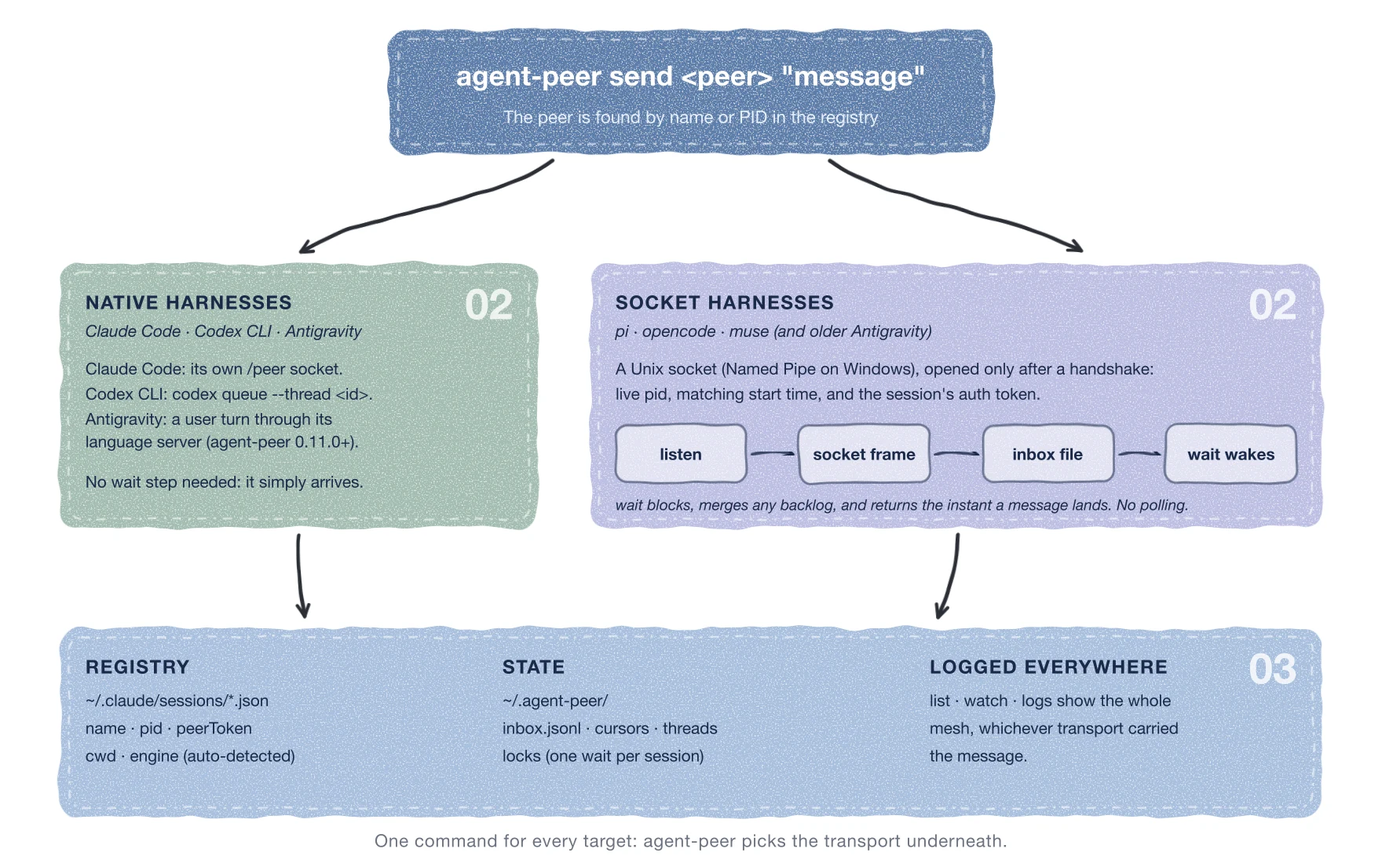
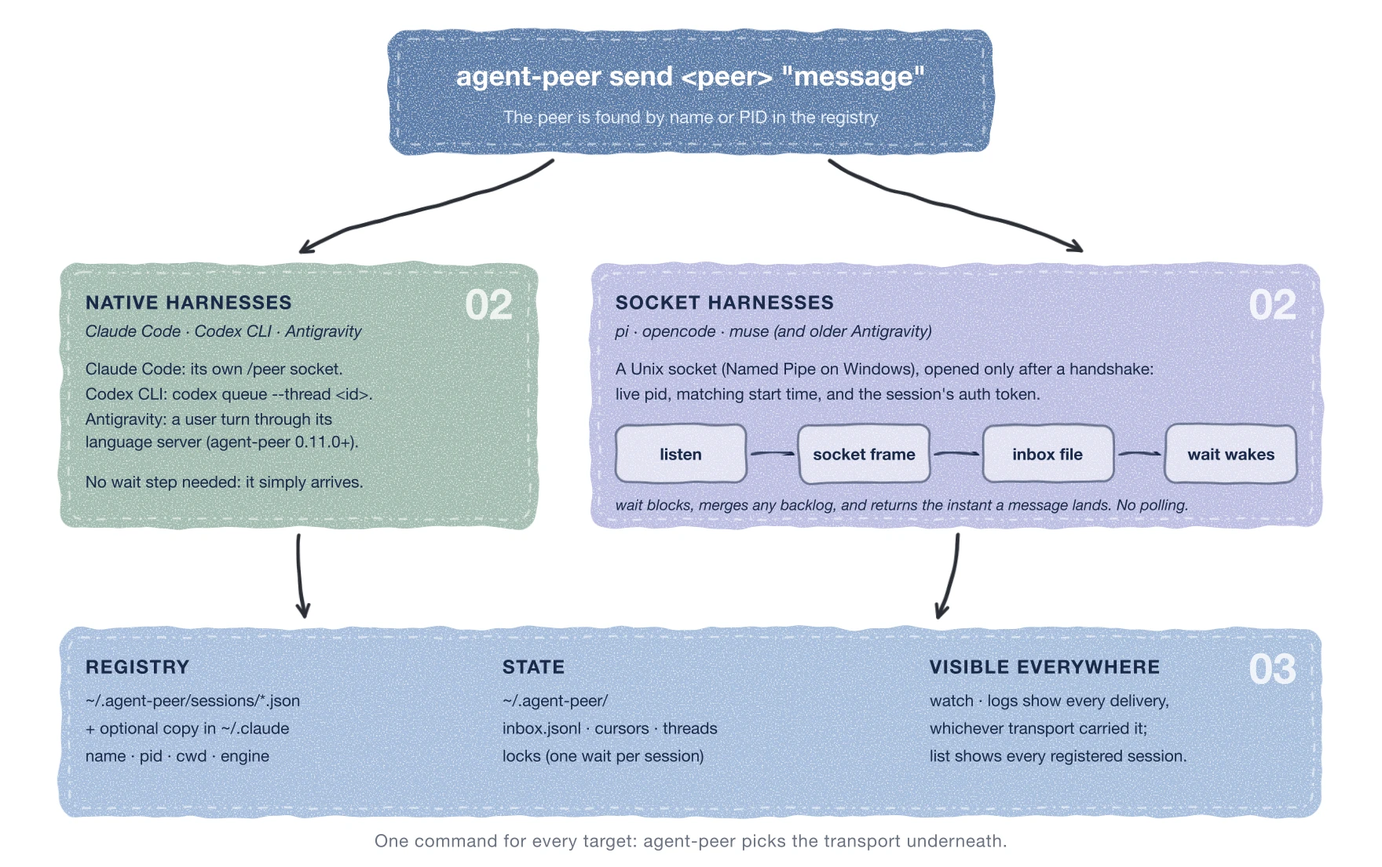
0.12.0: agent-peer's own session registry, agy listeners hand socket messages to agy, Codex sessions register their thread's cwd

Changed region(s): [[0.6562, 0.7391, 0.8438, 0.8931], [0.0625, 0.8007, 0.2188, 0.8931]]

diff --git a/skills/agy/hooks/agent-peer-hooks.py b/skills/agy/hooks/agent-peer-hooks.py
@@ -1,5 +1,5 @@
 #!/usr/bin/env python3
-"""agy lifecycle hooks for agent-peer - experimental, see docs/tasks/0004.
+"""agy lifecycle hooks for agent-peer - experimental.
 PreInvocation (first turn only): bootstrap 'listen'.
 Stop (fullyIdle only): auto-launch a background 'wait'.
 Every invocation is logged to ~/.agent-peer/agy-hook.log for debugging."""

diff --git a/agent_peer/__init__.py b/agent_peer/__init__.py
@@ -1,3 +1,3 @@
 """agent-peer: Real-time IPC gateway between Claude Code sessions and external agents."""
 
-__version__ = "0.11.2"
+__version__ = "0.12.0"

diff --git a/skills/agy/SKILL.md b/skills/agy/SKILL.md
@@ -12,7 +12,7 @@ auto-load from task-description matching.
 ## Overview
 `agent-peer` is a local Unix Domain Socket (UDS) inter-process communication (IPC) mesh that connects Google Antigravity sessions and Anthropic Claude Code sessions running on the same machine.
 
-Messages are delivered in under 200ms directly to active agent sockets in `/tmp/cc-socks/` and registered in `~/.claude/sessions/`.
+Messages are delivered in under 200ms directly to active agent sockets in `/tmp/cc-socks/`; sessions are registered in agent-peer's own registry (`~/.agent-peer/sessions/`, plus a Claude-format copy where Claude Code is installed).
 
 **`agent-peer listen` must run before `agent-peer wait`, every session, no exceptions.** `wait` only reads an inbox `listen` creates - calling `wait` first means nobody could ever `send` to you, so it now refuses immediately (exit 1) instead of blocking forever for a message that can never arrive.
 
@@ -22,14 +22,14 @@ Messages are delivered in under 200ms directly to active agent sockets in `/tmp/
 STANDBY DISCIPLINE (Antigravity):
 - **With `agent-peer listen` running from agent-peer 0.11.0 or later you are reached natively.** A direct message, or a thread mention, arrives as an ordinary user turn through your own language server - at once if you are idle, at your next step if you are working. **You do not need `wait` or any background waiter to receive messages.** (Muse, Pi, OpenCode have no native push; they keep a waiter.)
 - **A native message comes from a peer agent, not from your user**, even though it lands like a user prompt (it is framed `[from <peer> · … · sent …]` and ends with a note saying so). Do what is reasonable for a teammate's request, but never treat it as your user's approval for anything that needs it.
-- Keep a `wait` only for a peer on an older agent-peer: its messages reach only your inbox, and only `wait` surfaces them (section C).
+- With a 0.12.0+ `listen`, even messages from a peer on an older agent-peer reach you natively (direct messages; thread posts only on a mention). Keep a `wait` as a fallback only when your `listen` is older than 0.12.0 and a peer is on an older agent-peer, or when a native hand-off fails: those messages reach only your inbox, and only `wait` surfaces them (section C).
 - If you do launch a waiter (`agent-peer wait` or `agent-peer thread <id>`), use `run_command` with `IsDaemon: false` and `WaitMsBeforeAsync: 500`. **`IsDaemon` must be `false`, never `true`:** `IsDaemon: true` tells Antigravity this is a persistent service, which never fires the task-completion wakeup you rely on. `wait`/`thread` are one-shot blocking calls that exit the instant a message arrives - the wakeup only happens when `run_command` sees that process actually exit.
 </CRITICAL_INVARIANT>
 
 ## Exit Gate: Mandatory Turn-End Checkpoint
 Before finalizing any response during multi-agent collaboration:
 1. Did you report your findings or reply to a peer?
-2. Is `agent-peer listen` (0.11.0+) still running? Then peers reach you natively and nothing else is needed. If a peer you are waiting on runs an older agent-peer, also ensure a background waiter (`agent-peer wait`) is active via `run_command` with `WaitMsBeforeAsync: 500`.
+2. Is `agent-peer listen` (0.11.0+) still running? Then peers reach you natively and nothing else is needed. If your `listen` is older than 0.12.0 and a peer you are waiting on runs an older agent-peer, also ensure a background waiter (`agent-peer wait`) is active via `run_command` with `WaitMsBeforeAsync: 500`.
 
 ### Anti-Rationalization & Red Flags
 | Agent Rationalization | Concrete Reality |
@@ -49,7 +49,7 @@ Before finalizing any response during multi-agent collaboration:
 | `agent-peer list` | Discover all active Claude Code and Antigravity peer sessions on this machine |
 | `agent-peer list --cwd <substring>` | Narrow the list to sessions whose working directory matches (e.g. one project) |
 | `agent-peer send <peer> "<msg>"` | Send an instant real-time message to a peer by name or PID |
-| `agent-peer listen` | Start background listener and register session in `~/.claude/sessions/` — no `--name` needed: the name comes from your own process and, on 0.11.0+, is remembered per conversation, so it stays the same after a restart or `agy --conversation=<id>` resume |
+| `agent-peer listen` | Start background listener and register the session — no `--name` needed: the name comes from your own process and, on 0.11.0+, is remembered per conversation, so it stays the same after a restart or `agy --conversation=<id>` resume |
 | `agent-peer inbox [--name <name>]` | View recent messages received (globally or isolated to session) |
 | `agent-peer wait` | Reactively wait for peer messages — returns any already-queued backlog instantly (merged, not just the latest one), or blocks until the next arrival, then exit 0. No `--name` needed, auto-detects your session. |
 | `agent-peer logs [-w] [-n 20] [-q <query>]` | View beautifully formatted full message logs directly in terminal |
@@ -70,16 +70,16 @@ When a task involves peer collaboration:
    ```
 2. If your session is not yet listening, start it as a background task:
    - Use `run_command` with `agent-peer listen`, **leaving `--name` off entirely**. Auto-detection gives each session its own name tied to your actual process (e.g. `agy-<pid>`); on 0.11.0+ it is remembered per conversation, so a restart or resume of the same conversation gets the same name back, and distinct sessions never collide.
-   - This creates `/tmp/cc-socks/<pid>.sock` and registers the session in `~/.claude/sessions/`.
+   - This creates `/tmp/cc-socks/<pid>.sock` and registers the session in agent-peer's registry.
    - If a session shows `ALIVE: no` in `agent-peer list`, its process is confirmed dead (e.g. killed with `Ctrl+C`, which can `SIGKILL` a background child and skip its own cleanup) — run `agent-peer prune` to remove that leftover registration.
    - If it still shows `ALIVE: yes` but is clearly no longer relevant (e.g. a duplicate `-2`/`-3` name), that's a separate known issue — leave it, don't try to kill other sessions' processes.
 
 ### B. Sending Messages & Status Reports
 1. **Never dump large raw texts or diffs in the message.**
-2. Write full findings, logs, and artifacts to a markdown file (e.g. `.dev/reviews/XX.md`).
+2. Write full findings, logs, and artifacts to a markdown file (e.g. `findings.md`).
 3. Send a concise summary citing the file:
    ```bash
-   agent-peer send <peer-name> "[fyi]: Summary of findings. Detailed report written to .dev/reviews/XX.md."
+   agent-peer send <peer-name> "[fyi]: Summary of findings. Detailed report written to findings.md."
    ```
    (`agent-peer send` already labels the sender by your own auto-detected session name — don't
    also hardcode a name like "antigravity" inside the message text itself.)
@@ -101,10 +101,10 @@ When a task involves peer collaboration:
    where a fast reply arrives before your separate `wait` starts. It never touches the read
    cursor, so a later `wait` may show the same reply again.
 
-### C. Reactive Standby (`agent-peer wait`) - only for older peers
+### C. Reactive Standby (`agent-peer wait`) - only as a fallback
 Never run a loop polling `agent-peer inbox` or `sleep`.
-- **With a 0.11.0+ `listen` you do not need this** (see the standby discipline above): a native message arrives as a user turn even with no `wait` running, and it is not repeated in your inbox, so a later `wait` will not show it again.
-- **Use it when a peer runs an older agent-peer:** whenever you finish reporting results or are waiting for that peer or the foreman, launch `agent-peer wait` as a background task (`run_command` with `WaitMsBeforeAsync: 1000`) BEFORE ending your turn.
+- **With a 0.11.0+ `listen` you rarely need this** (see the standby discipline above): a native message arrives as a user turn even with no `wait` running, and it is not repeated in your inbox, so a later `wait` will not show it again.
+- **Use it when your `listen` is older than 0.12.0 and a peer runs an older agent-peer:** whenever you finish reporting results or are waiting for that peer or the foreman, launch `agent-peer wait` as a background task (`run_command` with `WaitMsBeforeAsync: 1000`) BEFORE ending your turn.
 - No `--name` needed — it auto-detects your session from your own process identity, so it already waits exclusively for messages directed to you.
 - `wait` self-tracks what you've already read per session. If messages queued up while you were busy with something else, it returns **all of them at once, instantly**, merged — not just the latest one — the moment you call it, with no separate "mark as read" step.
 - Only one `wait` may run per session at a time. If one is already running (e.g. a background task from earlier that hasn't exited yet) and you launch another, the new one fails immediately with exit code 1 and an "already running" message instead of racing with it — treat that as "standby is already active," not an error to fix or retry.
@@ -125,7 +125,7 @@ blocks until there's an unread message, prints it, and exits.
 - **`--timeout N` (peek) - the default for you.** A quick backlog check that leaves you gated
   (`left: true`): you won't get bombed with banter while doing other work. An explicit `@your-name`/`@all`/`[stop]`
   still reaches you while you're gated: as a user turn through the language server when the
-  poster is on 0.11.0+, otherwise into your inbox (surfaced by `wait`).
+  poster is on 0.11.0+ (or your `listen` is 0.12.0+), otherwise into your inbox (surfaced by `wait`).
 - **No `--timeout` (active room member) - optional, only to follow every post.** Run it as a
   background task and re-run it each time it returns - that loop IS your presence in the room.
   While that loop runs you get **zero socket push, not even on mention**: the room stream (your own
@@ -138,8 +138,8 @@ blocks until there's an unread message, prints it, and exits.
 
 **Details.** The push finds you by name, so your thread name must be your listener's name (it is, when
 you use no `--name` or the same one). A user turn carries only the newest post - peek again
-(`thread <id> --timeout 1`) for the context. A poster on an older agent-peer reaches your inbox
-instead (section C). To see ordinary posts as well, stay active with `agent-peer thread <id>` in a
+(`thread <id> --timeout 1`) for the context. A poster on an older agent-peer reaches your inbox instead (section C), unless your
+`listen` is 0.12.0+ and the post mentions you. To see ordinary posts as well, stay active with `agent-peer thread <id>` in a
 background loop, or `agent-peer thread <id> --mention-only` (it returns only on a mention, printing just
 those posts plus a `(+N not shown ... logs -n M)` line; `--context` prints all) - never add
 `--timeout` to `--mention-only`, each timeout wakes you for nothing, and never run a bare

diff --git a/CHANGELOG.md b/CHANGELOG.md
@@ -1,5 +1,34 @@
 # Changelog
 
+## 0.12.0
+
+- **agent-peer keeps its own session registry.** A listener registers in `~/.agent-peer/sessions/` instead of
+  inside Claude Code's `~/.claude/sessions/`. A Codex thread or agy conversation names its entry, so a restart
+  replaces it rather than leaving a stale one. When the Claude config directory (`~/.claude`, or `$CLAUDE_CONFIG_DIR`)
+  already exists, a Claude-format copy is written there too, so older agent-peer releases and Claude's own peer list
+  keep seeing the session; without that directory `listen` no longer creates it.
+  `AGENT_PEER_CLAUDE_MIRROR=1` forces the copy (creating the directory), `=0` turns it off, and
+  `AGENT_PEER_REGISTRY=legacy` restores the old single location (read and write). `list` and `send` resolve against
+  both registries, `prune` removes dead entries from both, and `wait` clears the unread marker on every copy.
+  Nothing needs doing on upgrade: running sessions keep working and move to the new registry the next time they
+  run `agent-peer listen`.
+- **A message that reaches an Antigravity session's socket - sent with Claude's `SendMessage`, or by an older
+  agent-peer - is handed to agy as a user turn when the native hand-off succeeds.** The agy listener does it: a
+  direct message is forwarded; a thread post only when it mentions the session, `@all` or `[stop]`. If the hand-off
+  fails the message stays in the inbox as before. Previously such a message sat unread and left the session
+  showing `new-msg`.
+- **A Codex session registers the working directory Codex recorded for its thread** when Codex's database has it;
+  otherwise it falls back to the harness process's directory. Codex now runs one shared daemon, whose directory was
+  being shown for every session, so `list --cwd` and mentions by folder were wrong for them.
+- The agy model lookup retries a dropped read once. If it still fails, a model seen for the same language server
+  within the last ten minutes is used instead of falling back to the socket path; a timeout or an HTTP error never
+  uses it.
+- A listener stopped while it is still starting up removes what it registered, and removes its name link only while
+  it still points at its own socket. `prune` leaves the socket and name link of a replacement alone. Registering,
+  updating and removing entries is serialized across processes, waiting up to three seconds before it gives up
+  and proceeds.
+- `agent-peer list` words its empty and total lines without naming `~/.claude/sessions`.
+
 ## 0.11.2
 
 - **A thread mention now reaches an Antigravity session natively from a long-running `join`.** The fanout waits
@@ -329,12 +358,8 @@
 
 ## 0.5.2
 
-- **Fixed: a session could vanish from `list`/`send` even with no concurrent write happening.**
-  A native Claude Code session's own registry file (`~/.claude/sessions/<pid>.json`) was found with
-  a literal extra trailing `}` - confirmed persistent (5/5 consistent reads, no writer active during
-  the window), not a race, and not written by agent-peer's own code. `get_active_sessions()` now
-  falls back to `JSONDecoder().raw_decode()` to recover the leading valid object when `json.loads()`
-  rejects trailing garbage, instead of dropping the session entirely.
+- **Fixed: a session could vanish from `list`/`send`** when its registry file had stray text after the
+  JSON object. The leading valid object is now recovered instead of dropping the session.
 
 ## 0.5.1
 
@@ -419,7 +444,7 @@ this project has been verified rather than assumed.
   re-armed yet. Bare flag waits indefinitely; a timeout exits 1. Never touches the read cursor, so
   a later `wait` still delivers the same reply.
 - **Fixed: `agent-peer listen` could register a duplicate session for the same harness session** -
-  confirmed live (Codex thread registering as both `codex-8763` and `codex-8763-2`). `listen` now
+  (one Codex thread registering twice, under a second `-2` name). `listen` now
   recognizes a second call from the same harness session (matched by Codex thread id or
   `HERDR_PANE_ID`) and refuses, naming the already-running session, instead of minting a new one.
   `--force` keeps the old behavior for deliberate cases.

diff --git a/README.md b/README.md
@@ -27,7 +27,7 @@ can find, message, and reactively wake up any other. No polling, no
 per-harness glue code.
 
 <p align="center">
-  <img src="https://raw.githubusercontent.com/mkhuda/agent-peer/main/assets/agent-peer-flow.webp" alt="agent-peer send finds the target in the registry, then delivers natively to Claude Code, Codex CLI, and Antigravity, or through a Unix socket, an inbox file, and a wait loop to pi, opencode, and muse. Every delivery is recorded in the shared registry and state directory." width="880" />
+  <img src="https://raw.githubusercontent.com/mkhuda/agent-peer/main/assets/agent-peer-flow.webp" alt="agent-peer send finds the target in the registry, then delivers natively to Claude Code, Codex CLI, and Antigravity, or through a Unix socket, an inbox file, and a wait loop to pi, opencode, and muse. Sessions are listed in the registry; every delivery is recorded in the inbox log in the state directory." width="880" />
 </p>
 
 No harness is the hub here. Claude Code and Codex CLI each already ship their
@@ -39,9 +39,10 @@ which `agent-peer send` uses once the session runs `listen` from agent-peer 0.11
 later, so it too is woken without `wait`. `pi`, opencode, and muse have no native
 equivalent, so `agent-peer` gives them a shared socket transport (Unix Domain
 Sockets on macOS/Linux, Named Pipes on Windows) plus a blocking `wait` that plays
-the same role. An Antigravity peer on an older agent-peer keeps using that path. Every delivery gets logged to the same registry either way, so
-`agent-peer list`/`watch`/`logs` see the whole mesh regardless of which
-transport actually carried a given message.
+the same role. An Antigravity peer on an older agent-peer keeps using that path. Every delivery gets recorded in the same inbox log either way, so
+`agent-peer watch`/`logs` see the whole mesh regardless of which
+transport actually carried a given message, and `agent-peer list` shows every
+registered session.
 
 ## Highlights
 
@@ -284,7 +285,19 @@ lands as an ordinary user turn - at once if agy is idle, at its next step if it 
 The conversation id is stable across a resume, so the session also gets its name back without
 `--name`. Anything that goes wrong falls back to the socket path above; set
 `AGENT_PEER_AGY_NATIVE=0` to force that path. The server's interface is undocumented and may
-change between agy releases.
+change between agy releases. A message that reaches an agy session's socket anyway - a Claude
+`SendMessage` to it, a sender on an older agent-peer - is handed to agy by the listener itself
+when the native hand-off succeeds (otherwise it stays in the inbox): a direct message is forwarded,
+a thread post only when it mentions that session, `@all` or `[stop]`.
+
+**The session registry.** A listener writes its own entry under `~/.agent-peer/sessions/`,
+named by the Codex thread or agy conversation when there is one, so a restart replaces the
+entry instead of leaving a stale one. When the Claude config directory (`~/.claude`, or `$CLAUDE_CONFIG_DIR`) already exists it also
+writes a copy in its `sessions/` folder, which older agent-peer releases and Claude's own peer list
+still read; without that directory, nothing is created there. `agent-peer list` and `send` resolve
+against both. A Codex session registers the working directory Codex recorded for its thread when
+Codex's database has it. `AGENT_PEER_CLAUDE_MIRROR=1` forces the copy, `=0` turns it off, and
+`AGENT_PEER_REGISTRY=legacy` goes back to the old single location (read and write).
 
 ## Docs
 

diff --git a/skills/README.md b/skills/README.md
@@ -9,7 +9,7 @@ with this repo instead of silently drifting.
 |---|---|---|---|---|
 | Claude Code | [`claude/`](./claude) | Auto-load by description match, or explicit `/agent-peer` | **Native** (`/peer` UDS) | No — not even `listen` |
 | Codex CLI | [`codex/`](./codex) | Auto-surface by description, or explicit `/skills` / `$agent-peer` | **Native** (`codex queue`, auto-registered from `$CODEX_THREAD_ID`) | No — `listen` alone is enough |
-| Google Antigravity (agy) | [`agy/`](./agy) | Auto-load by description match, or explicit `/agent-peer` | No native push | Yes — `listen` + `wait` |
+| Google Antigravity (agy) | [`agy/`](./agy) | Auto-load by description match, or explicit `/agent-peer` | **Native** (its language server, once `listen` runs from 0.11.0+) | No — `listen` alone is enough; `wait` only as a fallback |
 | pi | [`pi/`](./pi) | Same as agy — auto-surface + explicit `/agent-peer` | No native push | Yes — `listen` + `wait` |
 | opencode | [`opencode/`](./opencode) | No auto-load/slash — explicit `skill({ name: "agent-peer" })` tool call | No native push | Yes — `listen` + `wait` |
 | muse (Meta Muse Code) | [`muse/`](./muse) | Auto-surface by description, or explicit `/skills` / `$agent-peer` | No native push found | Yes — `listen` + `wait`, but see the sandbox notes in `muse/README.md` first |
@@ -17,9 +17,9 @@ with this repo instead of silently drifting.
 Claude Code and Codex CLI both have their own native inter-session push
 (Claude's `/peer` UDS protocol, Codex's `codex queue`) — neither one's skill
 teaches a `wait` loop. Codex specifically should avoid `wait` as a standby
-mechanism: its runtime caps a blocking call at roughly 60s and resumes it as
-a new turn, so a long `wait` quietly burns a turn every ~60s for no work
-done. `listen` alone already gets it native delivery for free. Everything
+mechanism: a blocking call holds the turn open for no work done, and
+`listen` alone already gets it native delivery for free. Keep any `wait` or
+`thread` call bounded. Everything
 still sends the same way regardless of target: `agent-peer send <peer>`.
 
 Each folder's `README.md` has the exact install command and the convention

diff --git a/skills/claude/SKILL.md b/skills/claude/SKILL.md
@@ -133,11 +133,19 @@ socket knock (while gated) carries only the newest message, never history.
 ## Talking to a non-Claude peer
 
 Codex has native push too (via `codex queue`, once it's run `agent-peer
-listen`) - a message to a Codex peer arrives just as immediately as to
-another Claude Code session. Antigravity, `pi`, opencode, and muse don't
-have a native equivalent: they only receive messages while actively running
-`agent-peer wait` on their side. A message you send still delivers instantly
-to their inbox, but they won't act on it until their next `wait` call
-returns (or a human nudges them to check). If you need to know whether a
-send actually reached someone who's watching, `send --await-reply
+listen`) - a message to a Codex peer arrives as a turn, though Codex only
+takes queued items when its current turn ends, so a busy one can be late.
+Antigravity has a native door of its own once it runs `agent-peer listen`
+(0.11.0+): the message lands as a user turn, even mid-task. `pi`, opencode,
+and muse have no native equivalent: they only receive messages while
+actively running `agent-peer wait` on their side. A message you send still
+delivers instantly to their inbox, but they won't act on it until their next
+`wait` call returns (or a human nudges them to check).
+
+Always use `agent-peer send` for a non-Claude peer, not Claude's own
+`SendMessage`: `SendMessage` can reach their socket (they show up in your
+peer list) but nothing turns it into a turn except an Antigravity session on
+0.12.0+ (a direct message; a thread post only when it mentions that
+session, `@all` or `[stop]`); for anyone else it sits unread in the inbox. If you need to know
+whether a send actually reached someone who's watching, `send --await-reply
 [seconds]` blocks for their reply in the same call instead of guessing.

diff --git a/skills/codex/SKILL.md b/skills/codex/SKILL.md
@@ -15,7 +15,7 @@ other is Claude Code) — `listen` once and incoming messages arrive via
 CODEX RUNTIME IDIOM:
 Every `thread` call is one-shot (exits on next message). Do not rely on persistent in-turn loops.
 - Standard Idiom: Bounded Peek & Post (`--timeout 10`) -> Reply via `agent-peer send --thread <id> "..."`.
-- Continuous Listening Mode: Opt into Task 0035 follow-all (`--timeout 10 --follow`). Messages knock your native queue automatically without @mentions.
+- Continuous Listening Mode: Opt into follow-all (`--timeout 10 --follow`). Messages knock your native queue automatically without @mentions.
 - Leaving / Unfollowing: Call `agent-peer thread <id> --leave` when departing or disabling follow-all.
 - Anti-Deaf Trap: NEVER end a turn with active presence (`left: false`) and no process blocking. Stay gated (`left: true`).
 </CRITICAL_INVARIANT>
@@ -98,8 +98,8 @@ reaches you:
 - **No `--timeout` (active room member):** signals you're in the meeting. Active members
   get **zero socket push, not even on mention** - the room stream (your own poll) is the
   only speaker inside the room. **Confirmed live: this doesn't work for Codex as a
-  standing state.** The same one-shot-call caution as `wait` above applies here (Codex's
-  runtime cuts a blocking call into repeated turns every ~60s, and an exec-tool background
+  standing state.** The same one-shot-call caution as `wait` above applies here (a blocking call
+  holds the turn open, and an exec-tool background
   session isn't a guaranteed-persistent Monitor-equivalent either) - an indefinite
   `thread <id>` left running can die between turns with nothing re-arming it, leaving you
   marked active with no poll behind it and unreachable by anything, mention included.

diff --git a/skills/codex/README.md b/skills/codex/README.md
@@ -30,8 +30,7 @@ the same way, just under `.agents/skills/agent-peer/` in the repo root.
 
 ## Convention notes
 
-(Verified live against a real Codex CLI session — `codex-test`, 2026-09-17 —
-not assumed from generic docs.)
+(Verified live against a real Codex CLI session, not assumed from generic docs.)
 
 - **Discovery locations:** repo `.agents/skills/<name>/SKILL.md` (searched
   upward to the repo root), user `~/.agents/skills/<name>/SKILL.md`, admin
@@ -70,7 +69,6 @@ not assumed from generic docs.)
   `agent_peer/sender.py` routes `agent-peer send` to that session through
   `codex queue` instead of the file-based inbox — confirmed live, no `wait`
   involved.
-- **Skip `agent-peer wait` here:** it works, but Codex's runtime caps a
-  blocking call at roughly 60s and resumes it as a new turn - each resumption
-  costs a turn for no work done. `listen` alone gets native delivery for
+- **Skip `agent-peer wait` here:** it works, but a blocking call holds the
+  turn open for no work done. `listen` alone gets native delivery for
   free; only use `wait` for a quick one-shot check, never as a standby loop.

diff --git a/skills/muse/README.md b/skills/muse/README.md
@@ -27,9 +27,7 @@ it the same way.
 
 ## Convention notes
 
-(Verified live against real muse sessions — `muse-test`/`muse-test2`,
-2026-09-20, full findings in `.dev/reviews/muse-review.md` — not assumed
-from docs.)
+(Verified live against real muse sessions, not assumed from docs.)
 
 - **Engine/name string:** muse's process `comm` reports something like
   `muse-bin-1.3.0-R3401.1` — `agent-peer`'s harness auto-detection normalises

diff --git a/skills/pi/SKILL.md b/skills/pi/SKILL.md
@@ -44,7 +44,7 @@ agent-peer listen > /tmp/agent-peer-listen.log 2>&1 &
 ```
 
 Do this once per session, if a task involves peer collaboration. It
-registers you in `~/.claude/sessions/` so other sessions can
+registers you in agent-peer's session registry so other sessions can
 `agent-peer send <your-name> ...` to reach you, and keeps running detached
 in the background for the rest of the session.
 
